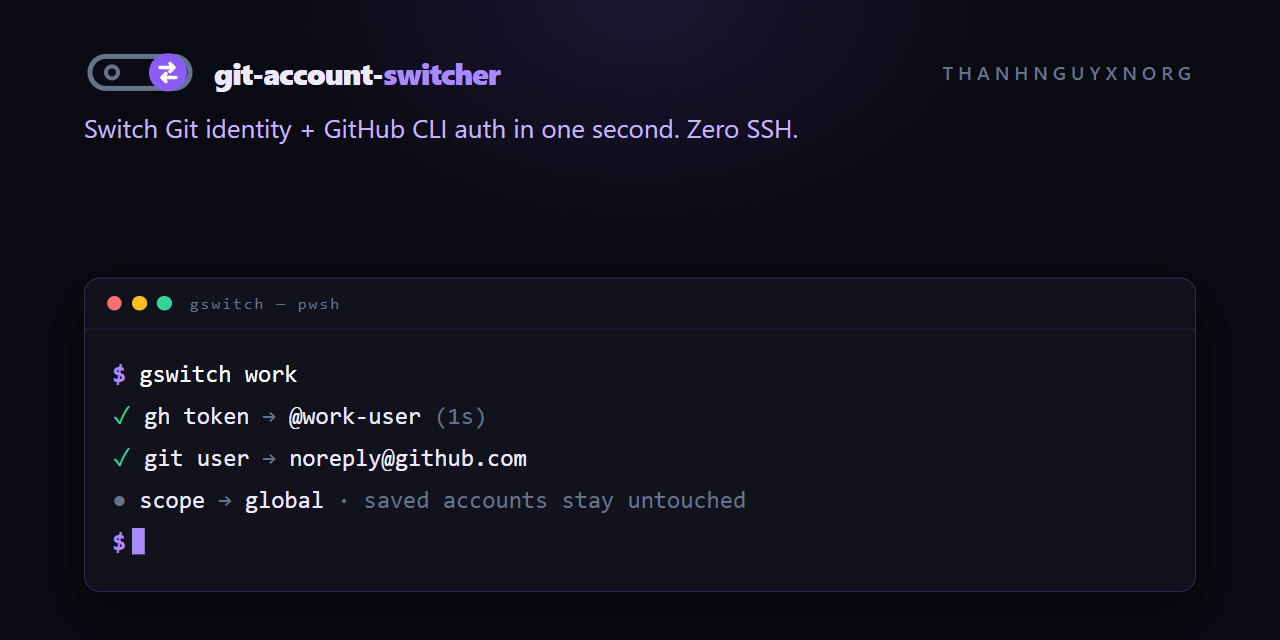
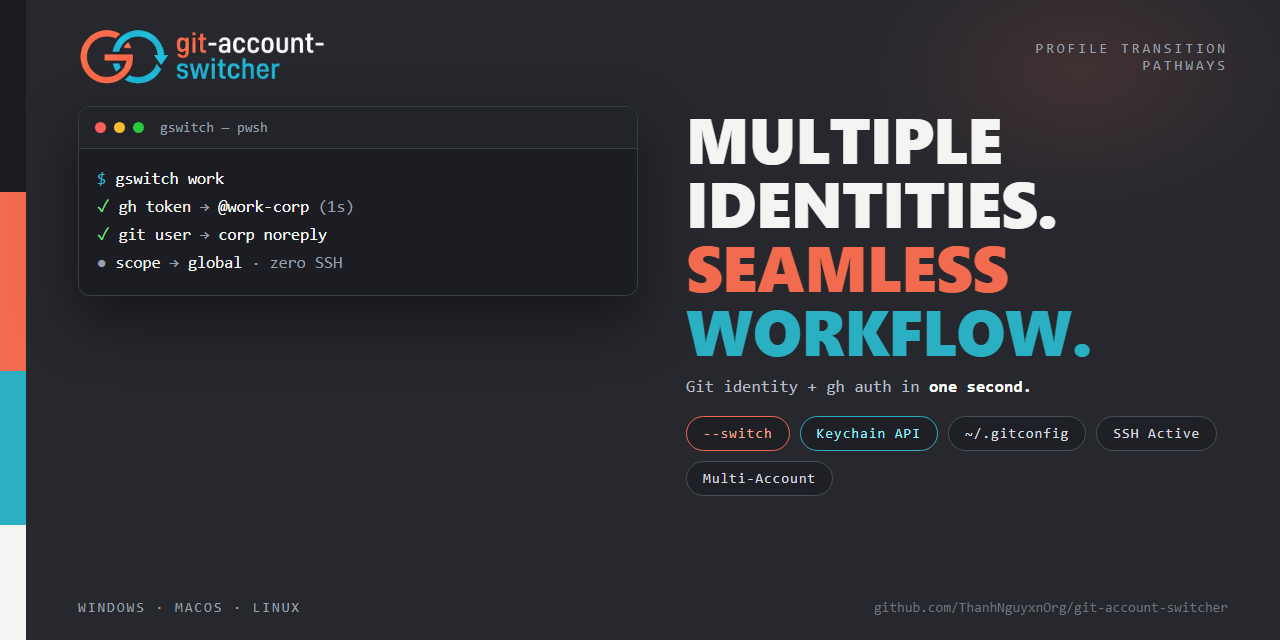
feat: fresh blendops and switcher brand assets

diff --git a/.superpowers/sdd/2026-10-12-multipage/progress.md b/.superpowers/sdd/2026-10-12-multipage/progress.md
@@ -1,0 +1,2 @@
+# SDD ledger — plan: docs/superpowers/plans/2026-10-12-multipage.md
+Pre-flight: T1 produces loadSiteData; T2 consumes nothing new (nav static); T3 consumes loadSiteData+Explorer limit prop (defined T3); T4 consumes loadSiteData+Journey limit (defined T4); T5 consumes loadSiteData+Ecosystem (existing); T6 consumes dist output. No conflicts.

diff --git a/src/content/repos/blendops.md b/src/content/repos/blendops.md
@@ -3,7 +3,7 @@ blurb: "AI-native Blender workflow and skill pack for non-Blender users, built a
 story: "Born in the org in spring 2026; a two-month sprint grew it from MVP scaffold to a full skill pack."
 category: "AI & Agents"
 accent: "highlight"
-logo: "/logos/blendops.svg"
+logo: "/logos/blendops.png"
 image: "/brand/blendops.png"
 pattern: "orbit"
 ---

diff --git a/src/content/repos/git-account-switcher.md b/src/content/repos/git-account-switcher.md
@@ -2,7 +2,7 @@
 blurb: "One-command Git identity and GitHub CLI auth switcher across accounts, zero SSH needed"
 category: "Developer Tools"
 accent: "secondary"
-logo: "/logos/git-account-switcher.svg"
+logo: "/logos/git-account-switcher.png"
 image: "/brand/git-account-switcher.png"
 pattern: "orbit"
 ---
